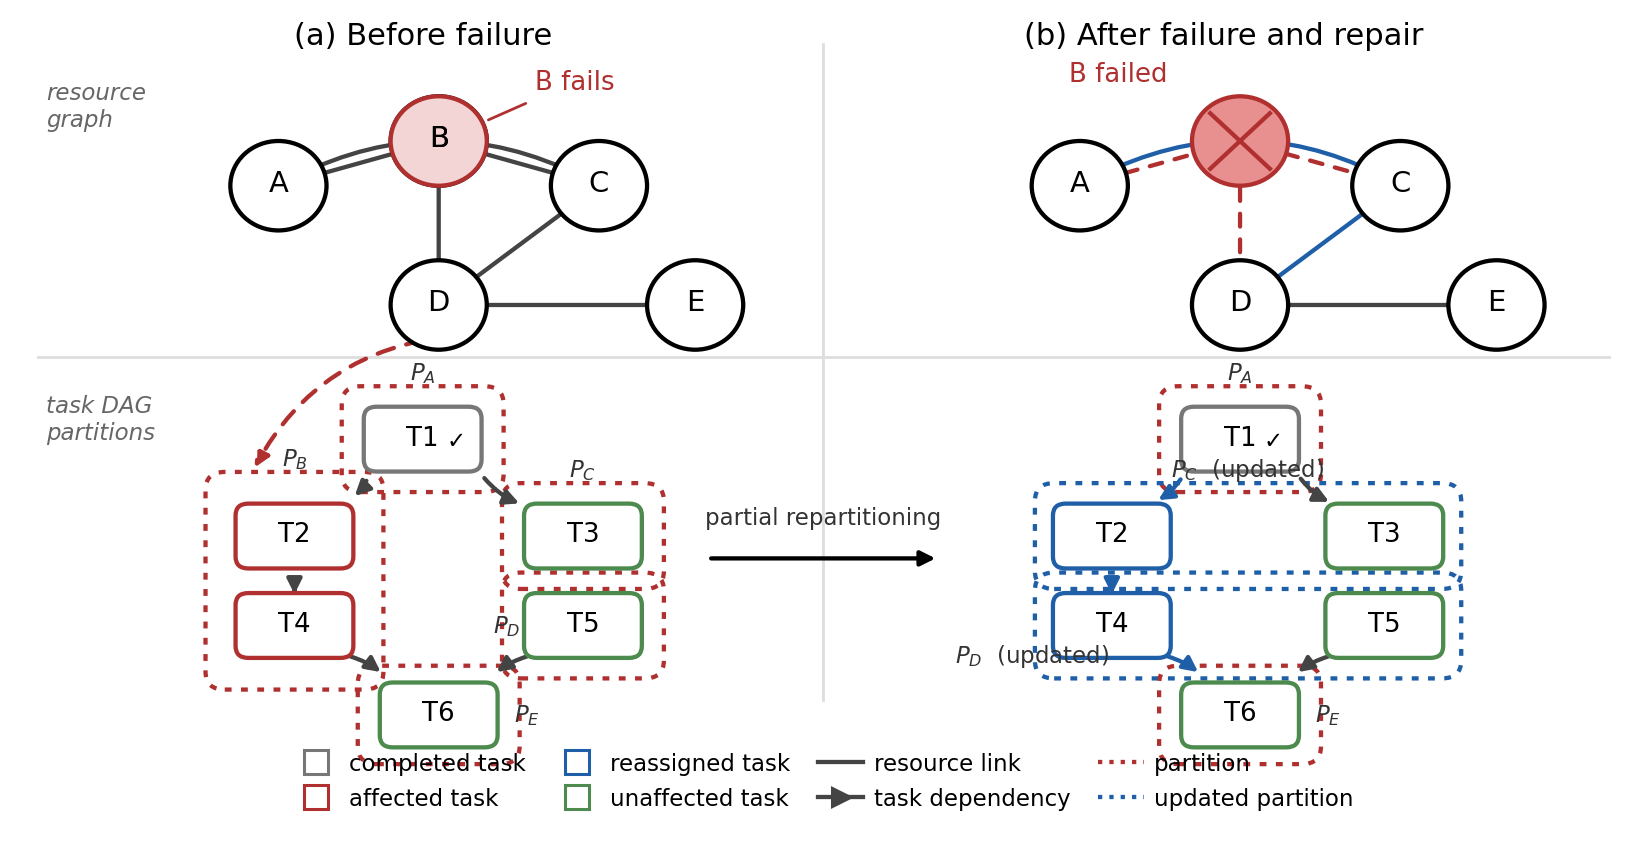
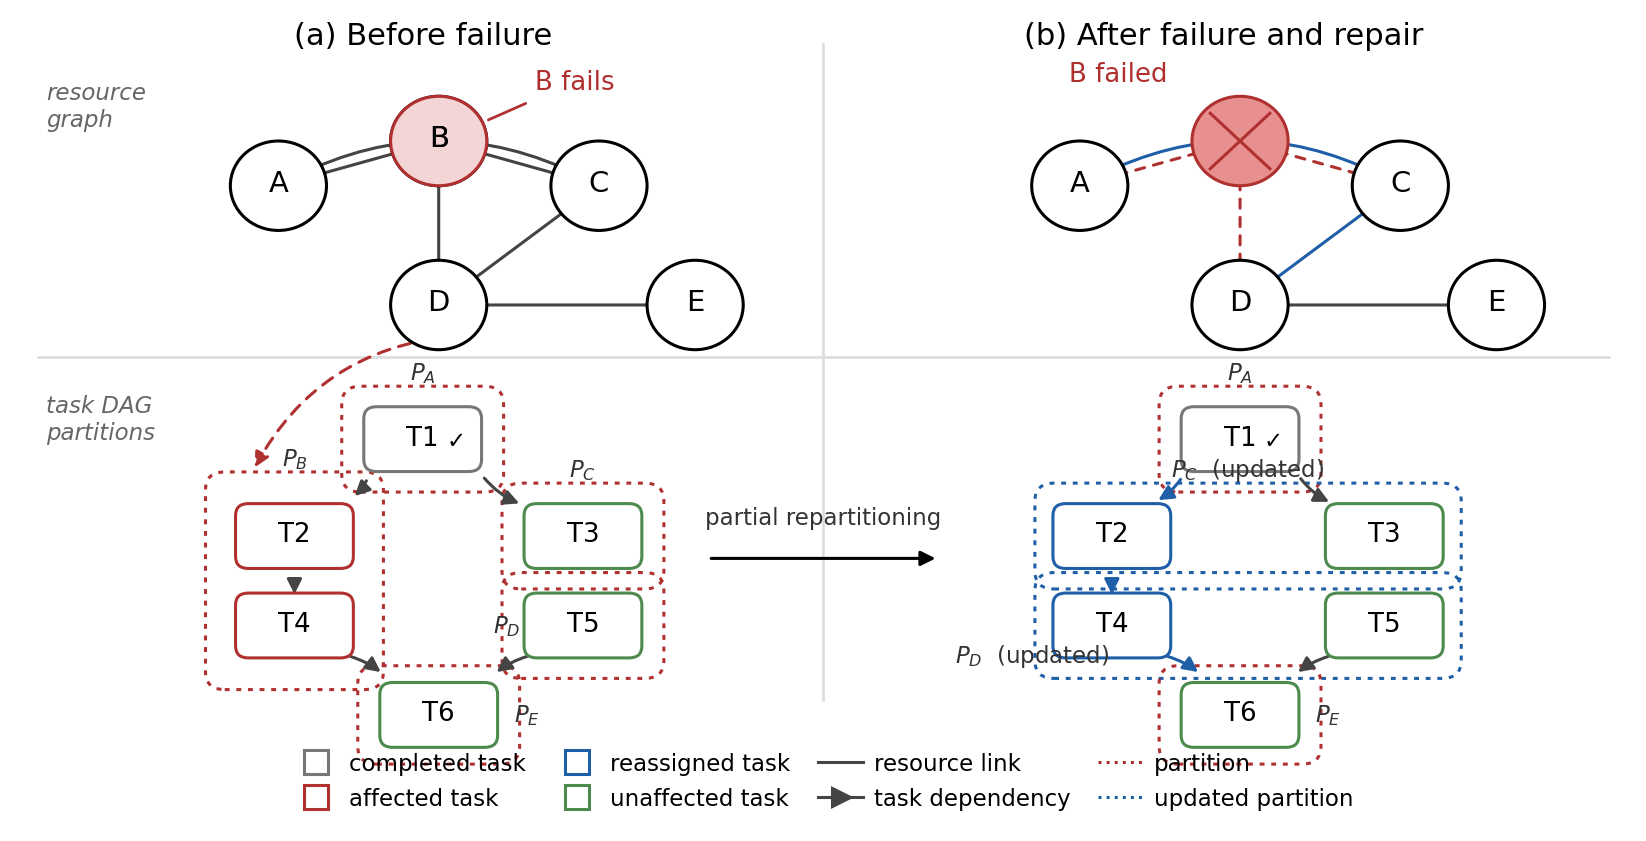
Thinner strokes in overview figure

diff --git a/python/make_overview_fig.py b/python/make_overview_fig.py
@@ -7,7 +7,7 @@ from matplotlib.lines import Line2D
 
 FS = 8.5
 FS_T = 10
-LW = 1.4
+LW = 1.0
 
 C_DONE = "#c9c9c9"      # completed task
 C_AFF = "#e88f8f"       # affected task
